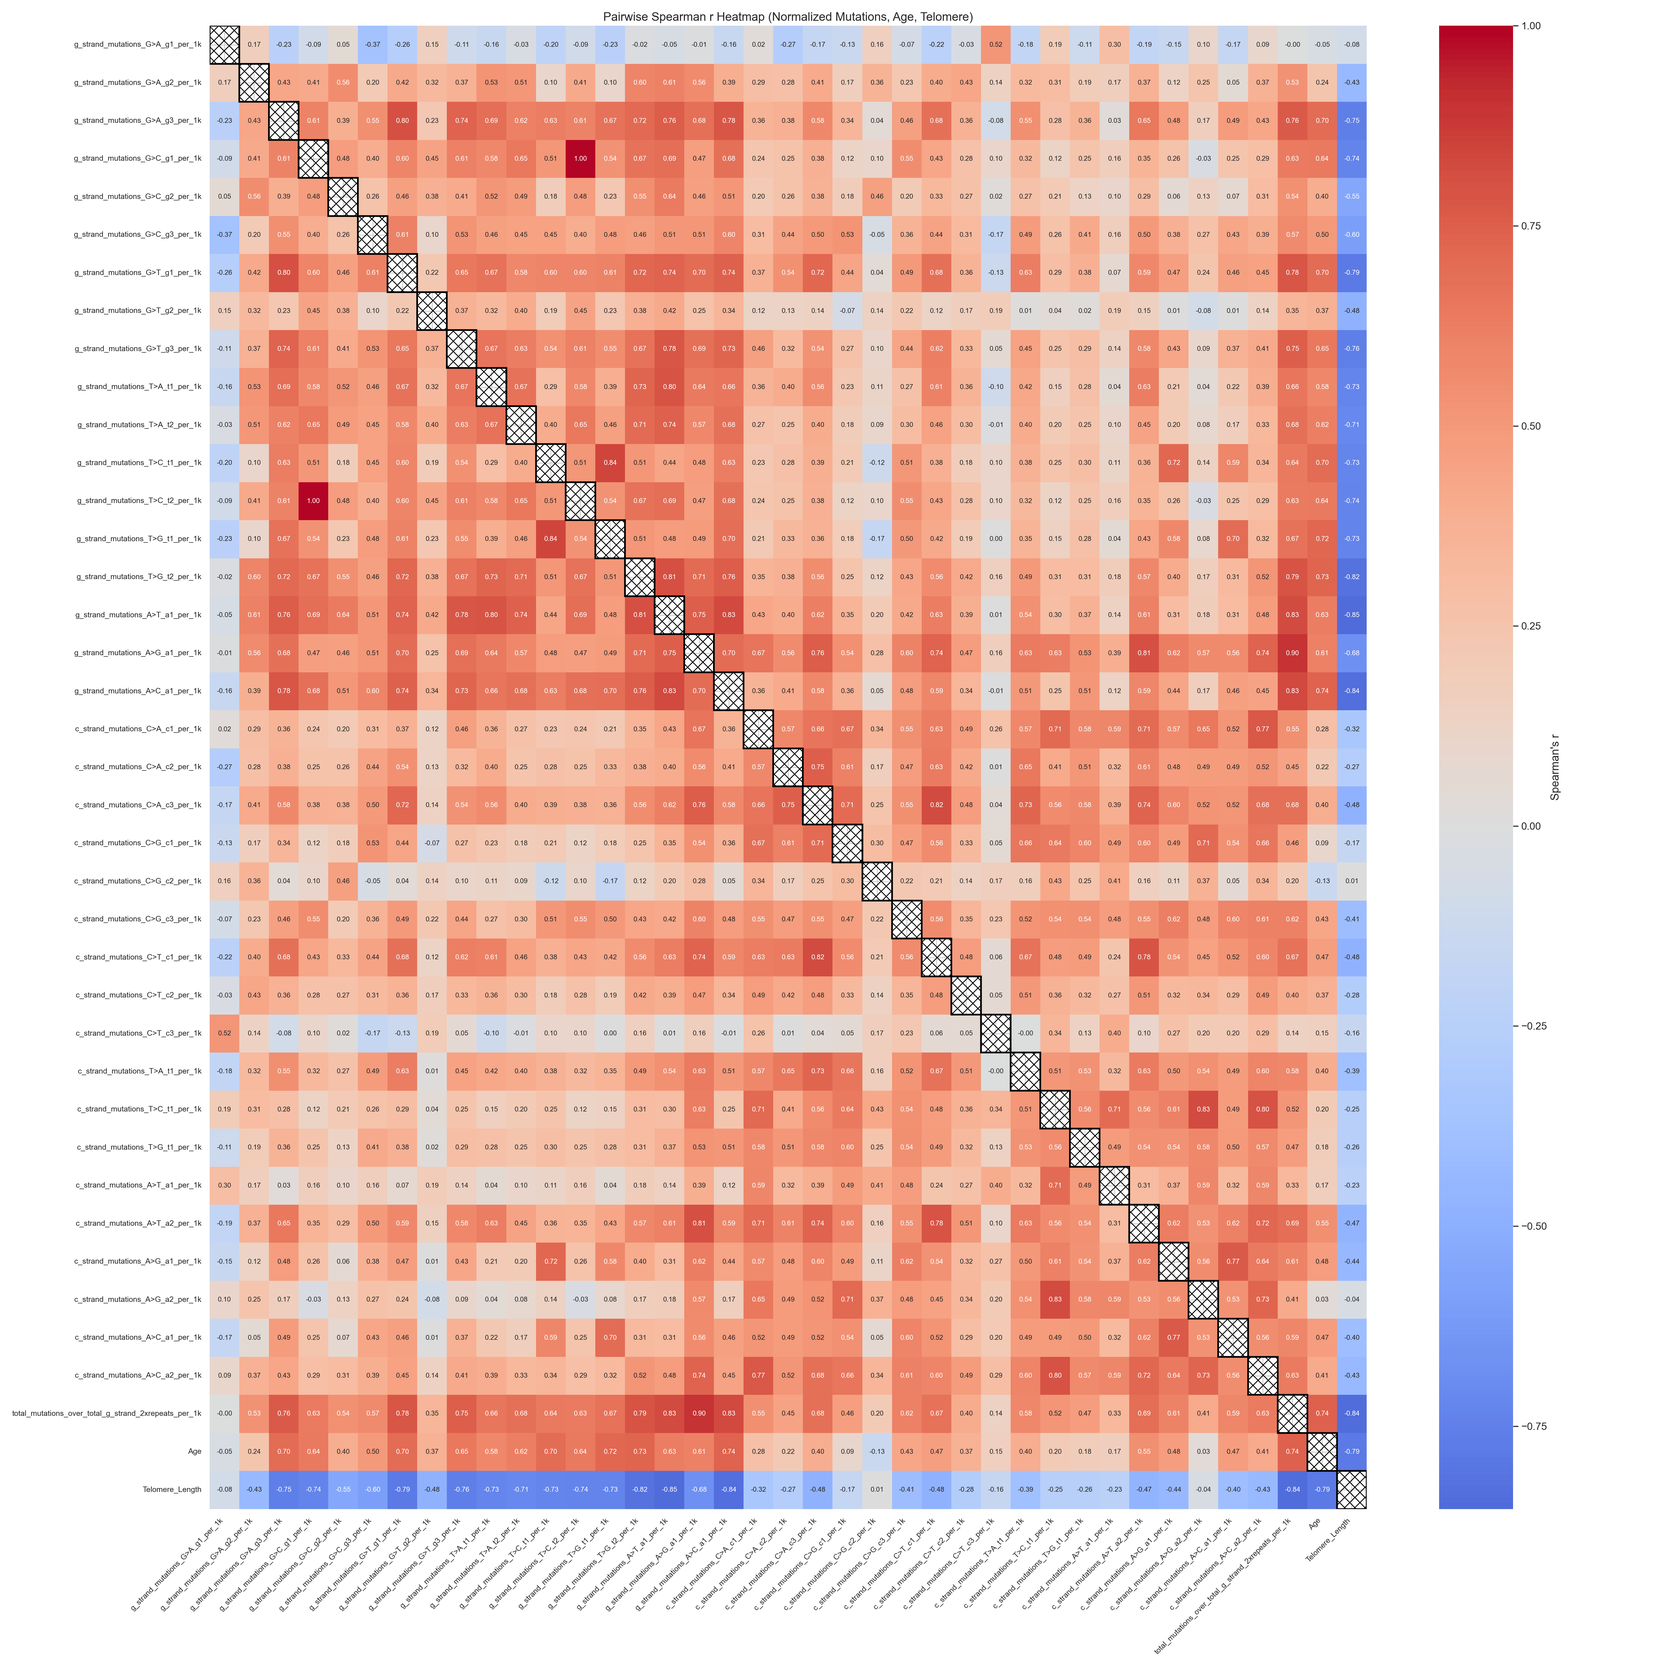
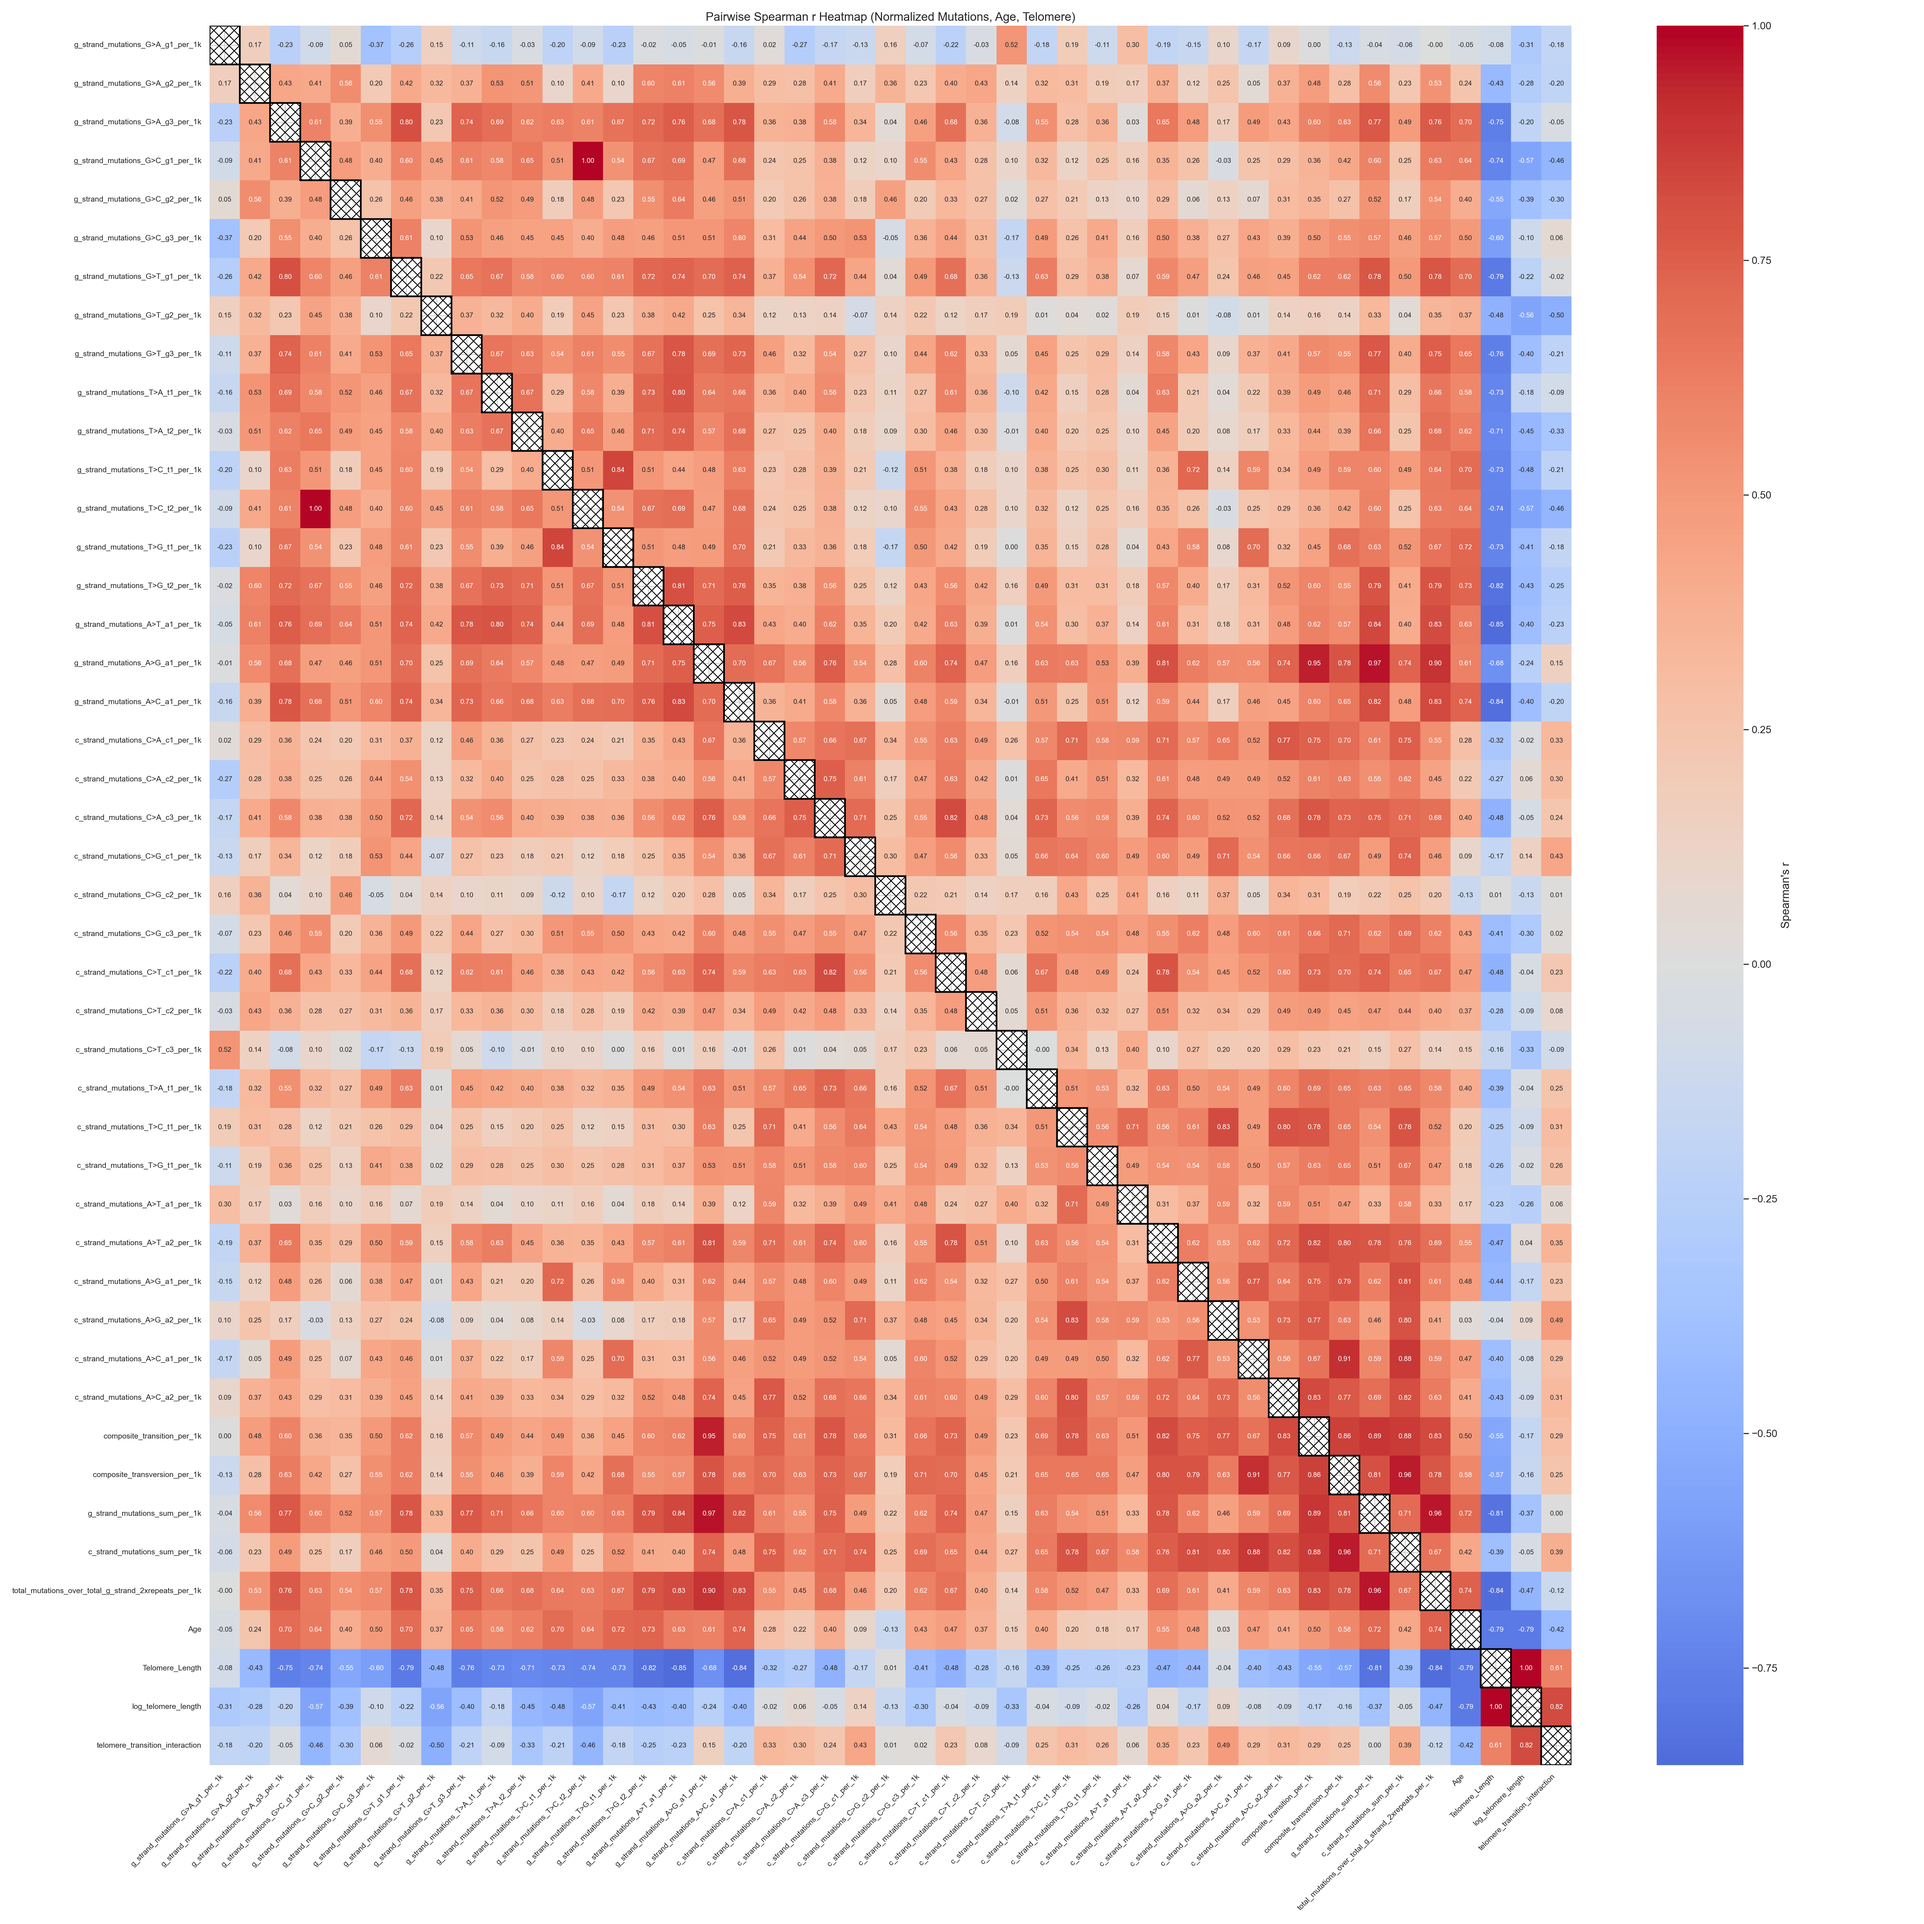
Enhance CSV generation and update Spearman analysis results
Updated generate_csv.py to include new mutation per_1k columns for both G-strand and C-strand mutations, improving the output structure. Enhanced spearman_results.csv with additional metrics such as composite transition and transversion rates, mutation ratios, and telomere length interactions. Refreshed binary files to reflect the latest changes.

diff --git a/analysis/generate_csv.py b/analysis/generate_csv.py
@@ -121,6 +121,37 @@ def generate_csv(data_dir: str):
         # Add normalized rate fields for each mutation key
         fieldnames.extend([f"{k}_per_1k" for k in mutation_keys])
 
+        # --- Add general mutation per_1k columns ---
+        general_mutation_map = {
+            'g_strand': {
+                'G>A': ['G>A_g1', 'G>A_g2', 'G>A_g3'],
+                'G>C': ['G>C_g1', 'G>C_g2', 'G>C_g3'],
+                'G>T': ['G>T_g1', 'G>T_g2', 'G>T_g3'],
+                'T>A': ['T>A_t1', 'T>A_t2'],
+                'T>C': ['T>C_t1', 'T>C_t2'],
+                'T>G': ['T>G_t1', 'T>G_t2'],
+                'A>T': ['A>T_a1'],
+                'A>G': ['A>G_a1'],
+                'A>C': ['A>C_a1'],
+            },
+            'c_strand': {
+                'C>A': ['C>A_c1', 'C>A_c2', 'C>A_c3'],
+                'C>G': ['C>G_c1', 'C>G_c2', 'C>G_c3'],
+                'C>T': ['C>T_c1', 'C>T_c2', 'C>T_c3'],
+                'T>A': ['T>A_t1'],
+                'T>C': ['T>C_t1'],
+                'T>G': ['T>G_t1'],
+                'A>T': ['A>T_a1', 'A>T_a2'],
+                'A>G': ['A>G_a1', 'A>G_a2'],
+                'A>C': ['A>C_a1', 'A>C_a2'],
+            }
+        }
+        general_mutation_headers = []
+        for strand, mutmap in general_mutation_map.items():
+            for mut in mutmap:
+                general_mutation_headers.append(f"{strand}_{mut}_per_1k")
+        fieldnames.extend(general_mutation_headers)
+
         # Add new engineered features to the CSV header
         fieldnames.extend([
             'composite_transition_per_1k',
@@ -179,6 +210,13 @@ def generate_csv(data_dir: str):
                 else:
                     norm_total = g_strand_total  # fallback, should not occur
                 row[f"{k}_per_1k"] = per_1k(counts.get(k, 0), norm_total)
+
+            # --- General mutation per_1k columns ---
+            for strand, mutmap in general_mutation_map.items():
+                strand_total = g_strand_total if strand == 'g_strand' else c_strand_total
+                for mut, subtypes in mutmap.items():
+                    total = sum(counts.get(f"{strand}_mutations_{subtype}", 0) for subtype in subtypes)
+                    row[f"{strand}_{mut}_per_1k"] = per_1k(total, strand_total)
             
             # Total mutations (sum all mutation counts)
             total_mutations = sum(counts[k] for k in mutation_keys)

diff --git a/analysis/scatterplot.py b/analysis/scatterplot.py
@@ -1,0 +1,44 @@
+import pandas as pd
+import matplotlib.pyplot as plt
+import numpy as np
+import seaborn as sns
+
+# Read the CSV file
+csv_path = 'telomere_analysis.csv'
+df = pd.read_csv(csv_path)
+
+# Clean and filter data
+# Some columns may have missing or non-numeric values, so we coerce errors
+for col in ['Age', 'Telomere_Length', 'g_strand_mutations_T>C_t1_per_1k']:
+    if col not in df.columns:
+        raise ValueError(f"Column '{col}' not found in CSV.")
+    df[col] = pd.to_numeric(df[col], errors='coerce')
+
+df = df.dropna(subset=['Age', 'Telomere_Length', 'total_mutations_over_total_g_strand_2xrepeats_per_1k'])
+
+# Prepare data for plotting
+ages = df['Age']
+telomere_lengths = df['Telomere_Length']
+mutations = df['total_mutations_over_total_g_strand_2xrepeats_per_1k']
+
+plt.figure(figsize=(10, 7))
+sc = plt.scatter(ages, telomere_lengths, c=mutations, cmap='viridis', s=60, edgecolor='k', alpha=0.8)
+cbar = plt.colorbar(sc)
+cbar.set_label('total_mutations_over_total_g_strand_2xrepeats_per_1k')
+
+plt.xlabel('Age')
+plt.ylabel('Telomere Length')
+plt.title('Telomere Length vs Age (colored by total_mutations_over_total_g_strand_2xrepeats_per_1k)')
+
+# Highlight and label top 3 outliers (highest mutation rates)
+outlier_indices = np.argsort(mutations)[-3:]
+for idx in outlier_indices:
+    plt.annotate(
+        df.iloc[idx]['FileName'] if 'FileName' in df.columns else str(idx),
+        (ages.iloc[idx], telomere_lengths.iloc[idx]),
+        textcoords="offset points", xytext=(5,5), ha='left', color='red', fontsize=9, weight='bold',
+        arrowprops=dict(arrowstyle='->', color='red', lw=1)
+    )
+
+plt.tight_layout()
+plt.savefig('scatterplot.png')
